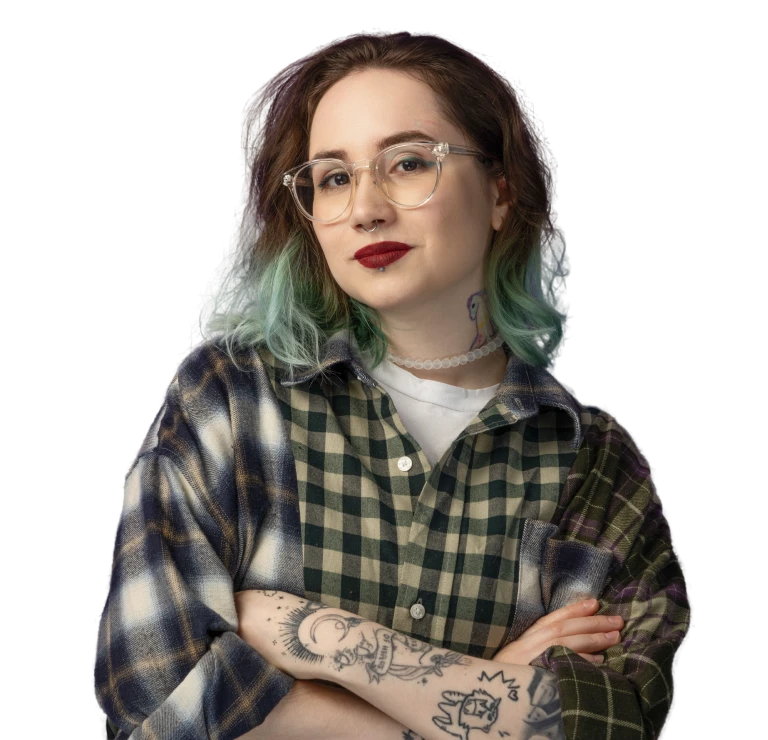
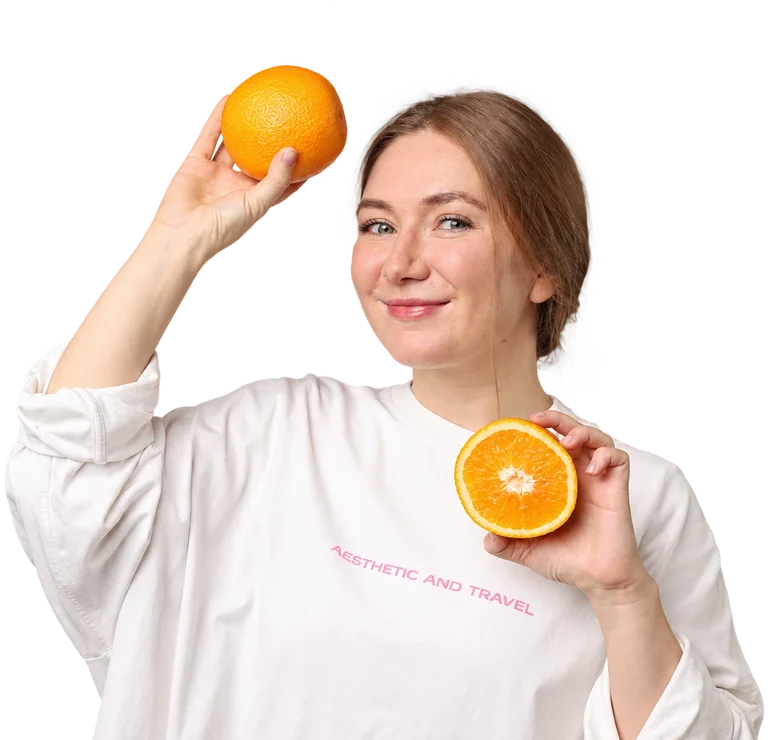
Истории: новые фото для «Технологии с заботой» и «Технологии с умом»

diff --git a/public/assets/stories/README.md b/public/assets/stories/README.md
@@ -1,8 +1,8 @@
 # Supplied technology-story portraits
 
-Both original 768 × 740 WebP files retain their alpha channel and are copied unchanged from the user's 28 October attachments.
+29 October replacement: both portraits come from the user's new transparent 1024 × 1536 WebP photos, cropped from the top of the subject (no retouching) to the existing 768 × 740 frame and re-encoded as WebP with the alpha channel kept.
 
-- `care-person.webp`: `codex-clipboard-d7c9bb42-37fe-47cf-acff-a175732aa71c.webp`, paired with the care/gemba story.
-- `mind-person.webp`: `codex-clipboard-6a97958e-9eae-4c54-99e6-2d42fbc9c657.webp`, paired with the mind/AI story.
+- `care-person.webp`: courier in the ВкусВилл jacket with a laptop and delivery bag (crop y 28–1015), paired with the care/gemba story.
+- `mind-person.webp`: colleague in a white sweatshirt holding oranges (crop y 79–1066), paired with the mind/AI story.
 
 Visual reference: Figma file `uJ2n44BeGivetJbZu4rtVo`, node `7400:2`, and https://vkusvill.ru/job/ (team-choice cards). The requested horizontal story layout and existing lilac palette take precedence over the reference's vertical team cards.
